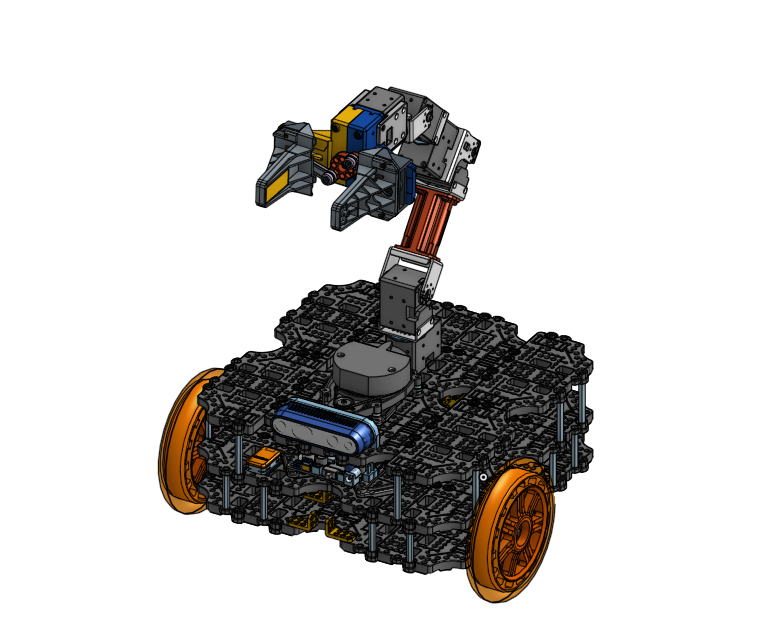
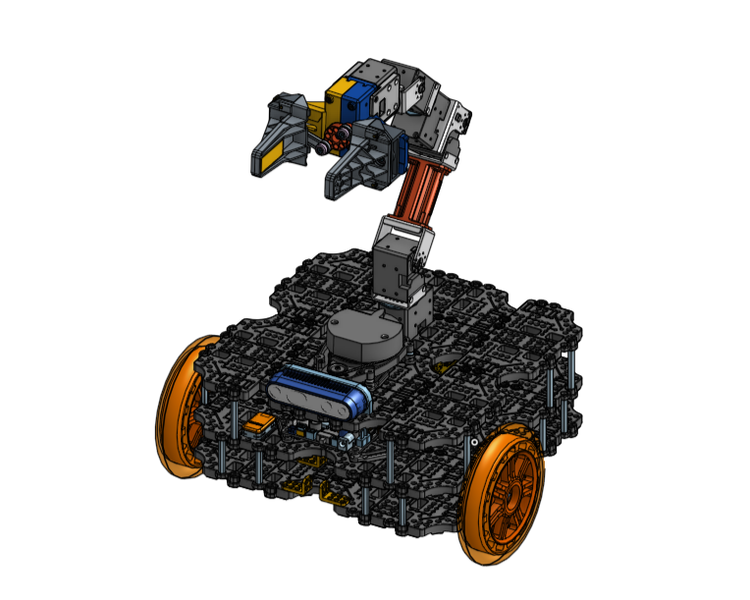
Unified images and gifs used for README files.

Changed region(s): [[0.184, 0.09, 0.7973, 0.96]]

diff --git a/turtlebot3/documentation/README_tb3_big_wheel_en.md b/turtlebot3/documentation/README_tb3_big_wheel_en.md
@@ -1,28 +1,28 @@
 [日本語](/turtlebot3/documentation/README_tb3_big_wheel_jp.md) | [English](/turtlebot3/documentation/README_tb3_big_wheel_en.md)
 
 # TurtleBot3 Friends: Big Wheel
-![TB3 Big Wheel](../../turtlebot3/documentation/tb3_big_wheel.png)
+![TB3 Big Wheel](/turtlebot3/documentation/tb3_big_wheel.png)
 
 ## Navigation Demo in Real-World Environment
 
 | Real-World | RViz |
 |:---:|:---:|
-| ![TB3 Big Wheel GO](../../turtlebot3/documentation/gif/tb3_big_wheel_go_top.gif) | ![TB3 Big Wheel GO rv](../../turtlebot3/documentation/gif/tb3_big_wheel_go_rv.gif) | 
+| ![TB3 Big Wheel GO](/turtlebot3/documentation/gif/tb3_big_wheel_go_top.gif) | ![TB3 Big Wheel GO rv](/turtlebot3/documentation/gif/tb3_big_wheel_go_rv.gif) | 
 
 | Real-World | RViz |
 |:---:|:---:|
-| ![TB3 Big Wheel BACK1](../../turtlebot3/documentation/gif/tb3_big_wheel_back_1_top.gif) | ![TB3 Big Wheel BACK rv](../../turtlebot3/documentation/gif/tb3_big_wheel_back_1_rv.gif) |
+| ![TB3 Big Wheel BACK1](/turtlebot3/documentation/gif/tb3_big_wheel_back_1_top.gif) | ![TB3 Big Wheel BACK rv](/turtlebot3/documentation/gif/tb3_big_wheel_back_1_rv.gif) |
 
 
 | Real-World | RViz |
 |:---:|:---:|
-| ![TB3 Big Wheel BACK2](../../turtlebot3/documentation/gif/tb3_big_wheel_back_2_top.gif) | ![TB3 Big Wheel BACK2 rv](../../turtlebot3/documentation/gif/tb3_big_wheel_back_2_rv.gif) |
+| ![TB3 Big Wheel BACK2](/turtlebot3/documentation/gif/tb3_big_wheel_back_2_top.gif) | ![TB3 Big Wheel BACK2 rv](/turtlebot3/documentation/gif/tb3_big_wheel_back_2_rv.gif) |
 
 ## Navigation Demo in Gazebo Environment
 
 | Gazebo + RViz | 
 |:---:|
-| ![TB3 Big Wheel BACK](../../turtlebot3/documentation/gif/tb3_big_wheel_nav_x5.gif) |
+| ![TB3 Big Wheel BACK](/turtlebot3/documentation/gif/tb3_big_wheel_nav_x5.gif) |
 
 ## Setup Manual
 
@@ -102,7 +102,7 @@
   ```
 
   6. If the firmware for the TurtleBot3 Big Wheel has been successfully burnt into the OpenCR, the following message will appear.
-  ![TB3 Big Wheel OpenCR Success Output](../../turtlebot3/documentation/tb3_big_wheel_opencr.png)
+  ![TB3 Big Wheel OpenCR Success Output](/turtlebot3/documentation/tb3_big_wheel_opencr.png)
 
 
 
@@ -265,10 +265,10 @@ $ roslaunch turtlebot3_gazebo turtlebot3_empty_world.launch
 
 | World Name | Image |
 |:---:|:---:|
-| turtlebot3_jp_world_static | ![TB3 static](../../turtlebot3/documentation/gif/turtlebot3_jp_world_static.png) | 
-| turtlebot3_jp_world_dynamic | ![TB3 dynamic](../../turtlebot3/documentation/gif/turtlebot3_jp_world_dynamic.gif) |
-| turtlebot3_jp_world_corridor_pedestrian | ![TB3 corridor](../../turtlebot3/documentation/gif/turtlebot3_jp_world_corridor.gif) |
-| turtlebot3_jp_world_corridor_pedestrian (rgbd) | ![TB3 corridor rgbd](../../turtlebot3/documentation/gif/turtlebot3_jp_world_corridor_rgbd.gif) |
+| turtlebot3_jp_world_static | ![TB3 static](/turtlebot3/documentation/gif/turtlebot3_jp_world_static.png) | 
+| turtlebot3_jp_world_dynamic | ![TB3 dynamic](/turtlebot3/documentation/gif/turtlebot3_jp_world_dynamic.gif) |
+| turtlebot3_jp_world_corridor_pedestrian | ![TB3 corridor](/turtlebot3/documentation/gif/turtlebot3_jp_world_corridor.gif) |
+| turtlebot3_jp_world_corridor_pedestrian (rgbd) | ![TB3 corridor rgbd](/turtlebot3/documentation/gif/turtlebot3_jp_world_corridor_rgbd.gif) |
 
 ## Hardware Related
 ### Bill Of Materials (BOM)

diff --git a/turtlebot3/documentation/README_tb3_big_wheel_with_sara_jp.md b/turtlebot3/documentation/README_tb3_big_wheel_with_sara_jp.md
@@ -1,7 +1,7 @@
 [日本語](/turtlebot3/documentation/README_tb3_big_wheel_with_sara_jp.md) | [English](/turtlebot3/documentation/README_tb3_big_wheel_with_sara_en.md)
 
 # TurtleBot3 Friends: Big Wheel with SARA
-![TB3 Big Wheel with SARA](/turtlebot3/documentation/tb3_big_wheel_with_sara_bg.png)
+![TB3 Big Wheel with SARA](/turtlebot3/documentation/tb3_big_wheel_with_sara.png)
 
 # 注意：Gazeboのみの対応。実機への対応中。
 

diff --git a/turtlebot3/documentation/README_tb3_big_wheel_3rs_jp.md b/turtlebot3/documentation/README_tb3_big_wheel_3rs_jp.md
@@ -1,7 +1,7 @@
 [日本語](/turtlebot3/documentation/README_tb3_big_wheel_3rs_jp.md) | [English](/turtlebot3/documentation/README_tb3_big_wheel_3rs_en.md)
 
 # TurtleBot3 Friends: Big Wheel 3RS
-![TB3 Big Wheel 3RS](/turtlebot3/documentation/tb3_big_wheel_3rs_bg.png)
+![TB3 Big Wheel 3RS](/turtlebot3/documentation/tb3_big_wheel_3rs.png)
 
 # 注意：Gazeboのみの対応。実機への対応中。
 <!-- ## 実環境での動作検証

diff --git a/turtlebot3/documentation/README_tb3_big_wheel_with_sara_en.md b/turtlebot3/documentation/README_tb3_big_wheel_with_sara_en.md
@@ -1,7 +1,7 @@
 [日本語](/turtlebot3/documentation/README_tb3_big_wheel_jp.md) | [English](/turtlebot3/documentation/README_tb3_big_wheel_en.md)
 
 # TurtleBot3 Friends: Big Wheel with SARA
-![TB3 Big Wheel with SARA](/turtlebot3/documentation/tb3_big_wheel_with_sara_bg.png)
+![TB3 Big Wheel with SARA](/turtlebot3/documentation/tb3_big_wheel_with_sara.png)
 
 ## In Development Process
 <!-- # TurtleBot3 Friends: Big Wheel

diff --git a/turtlebot3/documentation/README_tb3_big_wheel_3rs_en.md b/turtlebot3/documentation/README_tb3_big_wheel_3rs_en.md
@@ -1,7 +1,7 @@
 [日本語](/turtlebot3/documentation/README_tb3_big_wheel_3rs_jp.md) | [English](/turtlebot3/documentation/README_tb3_big_wheel_3rs_en.md)
 
 # TurtleBot3 Friends: Big Wheel 3RS
-![TB3 Big Wheel 3RS](/turtlebot3/documentation/tb3_big_wheel_3rs_bg.png)
+![TB3 Big Wheel 3RS](/turtlebot3/documentation/tb3_big_wheel_3rs.png)
 
 ## In Development Process
 

diff --git a/turtlebot3/documentation/README_tb3_pizza_jp.md b/turtlebot3/documentation/README_tb3_pizza_jp.md
@@ -1,7 +1,7 @@
 [日本語](/turtlebot3/documentation/README_tb3_pizza_jp.md) | [English](/turtlebot3/documentation/README_tb3_pizza_en.md)
 
 # TurtleBot3 Friends: Pizza
-![TB3 Pizza](/turtlebot3/documentation/tb3_pizza_bg.png)
+![TB3 Pizza](/turtlebot3/documentation/tb3_pizza.png)
 
 ## 実環境での動作検証
 

diff --git a/turtlebot3/documentation/README_tb3_pizza_en.md b/turtlebot3/documentation/README_tb3_pizza_en.md
@@ -1,7 +1,7 @@
 [日本語](/turtlebot3/documentation/README_tb3_pizza_jp.md) | [English](/turtlebot3/documentation/README_tb3_pizza_en.md)
 
 # TurtleBot3 Friends: Pizza
-![TB3 Pizza](/turtlebot3/documentation/tb3_pizza_bg.png)
+![TB3 Pizza](/turtlebot3/documentation/tb3_pizza.png)
 
 # In Development Process
 
